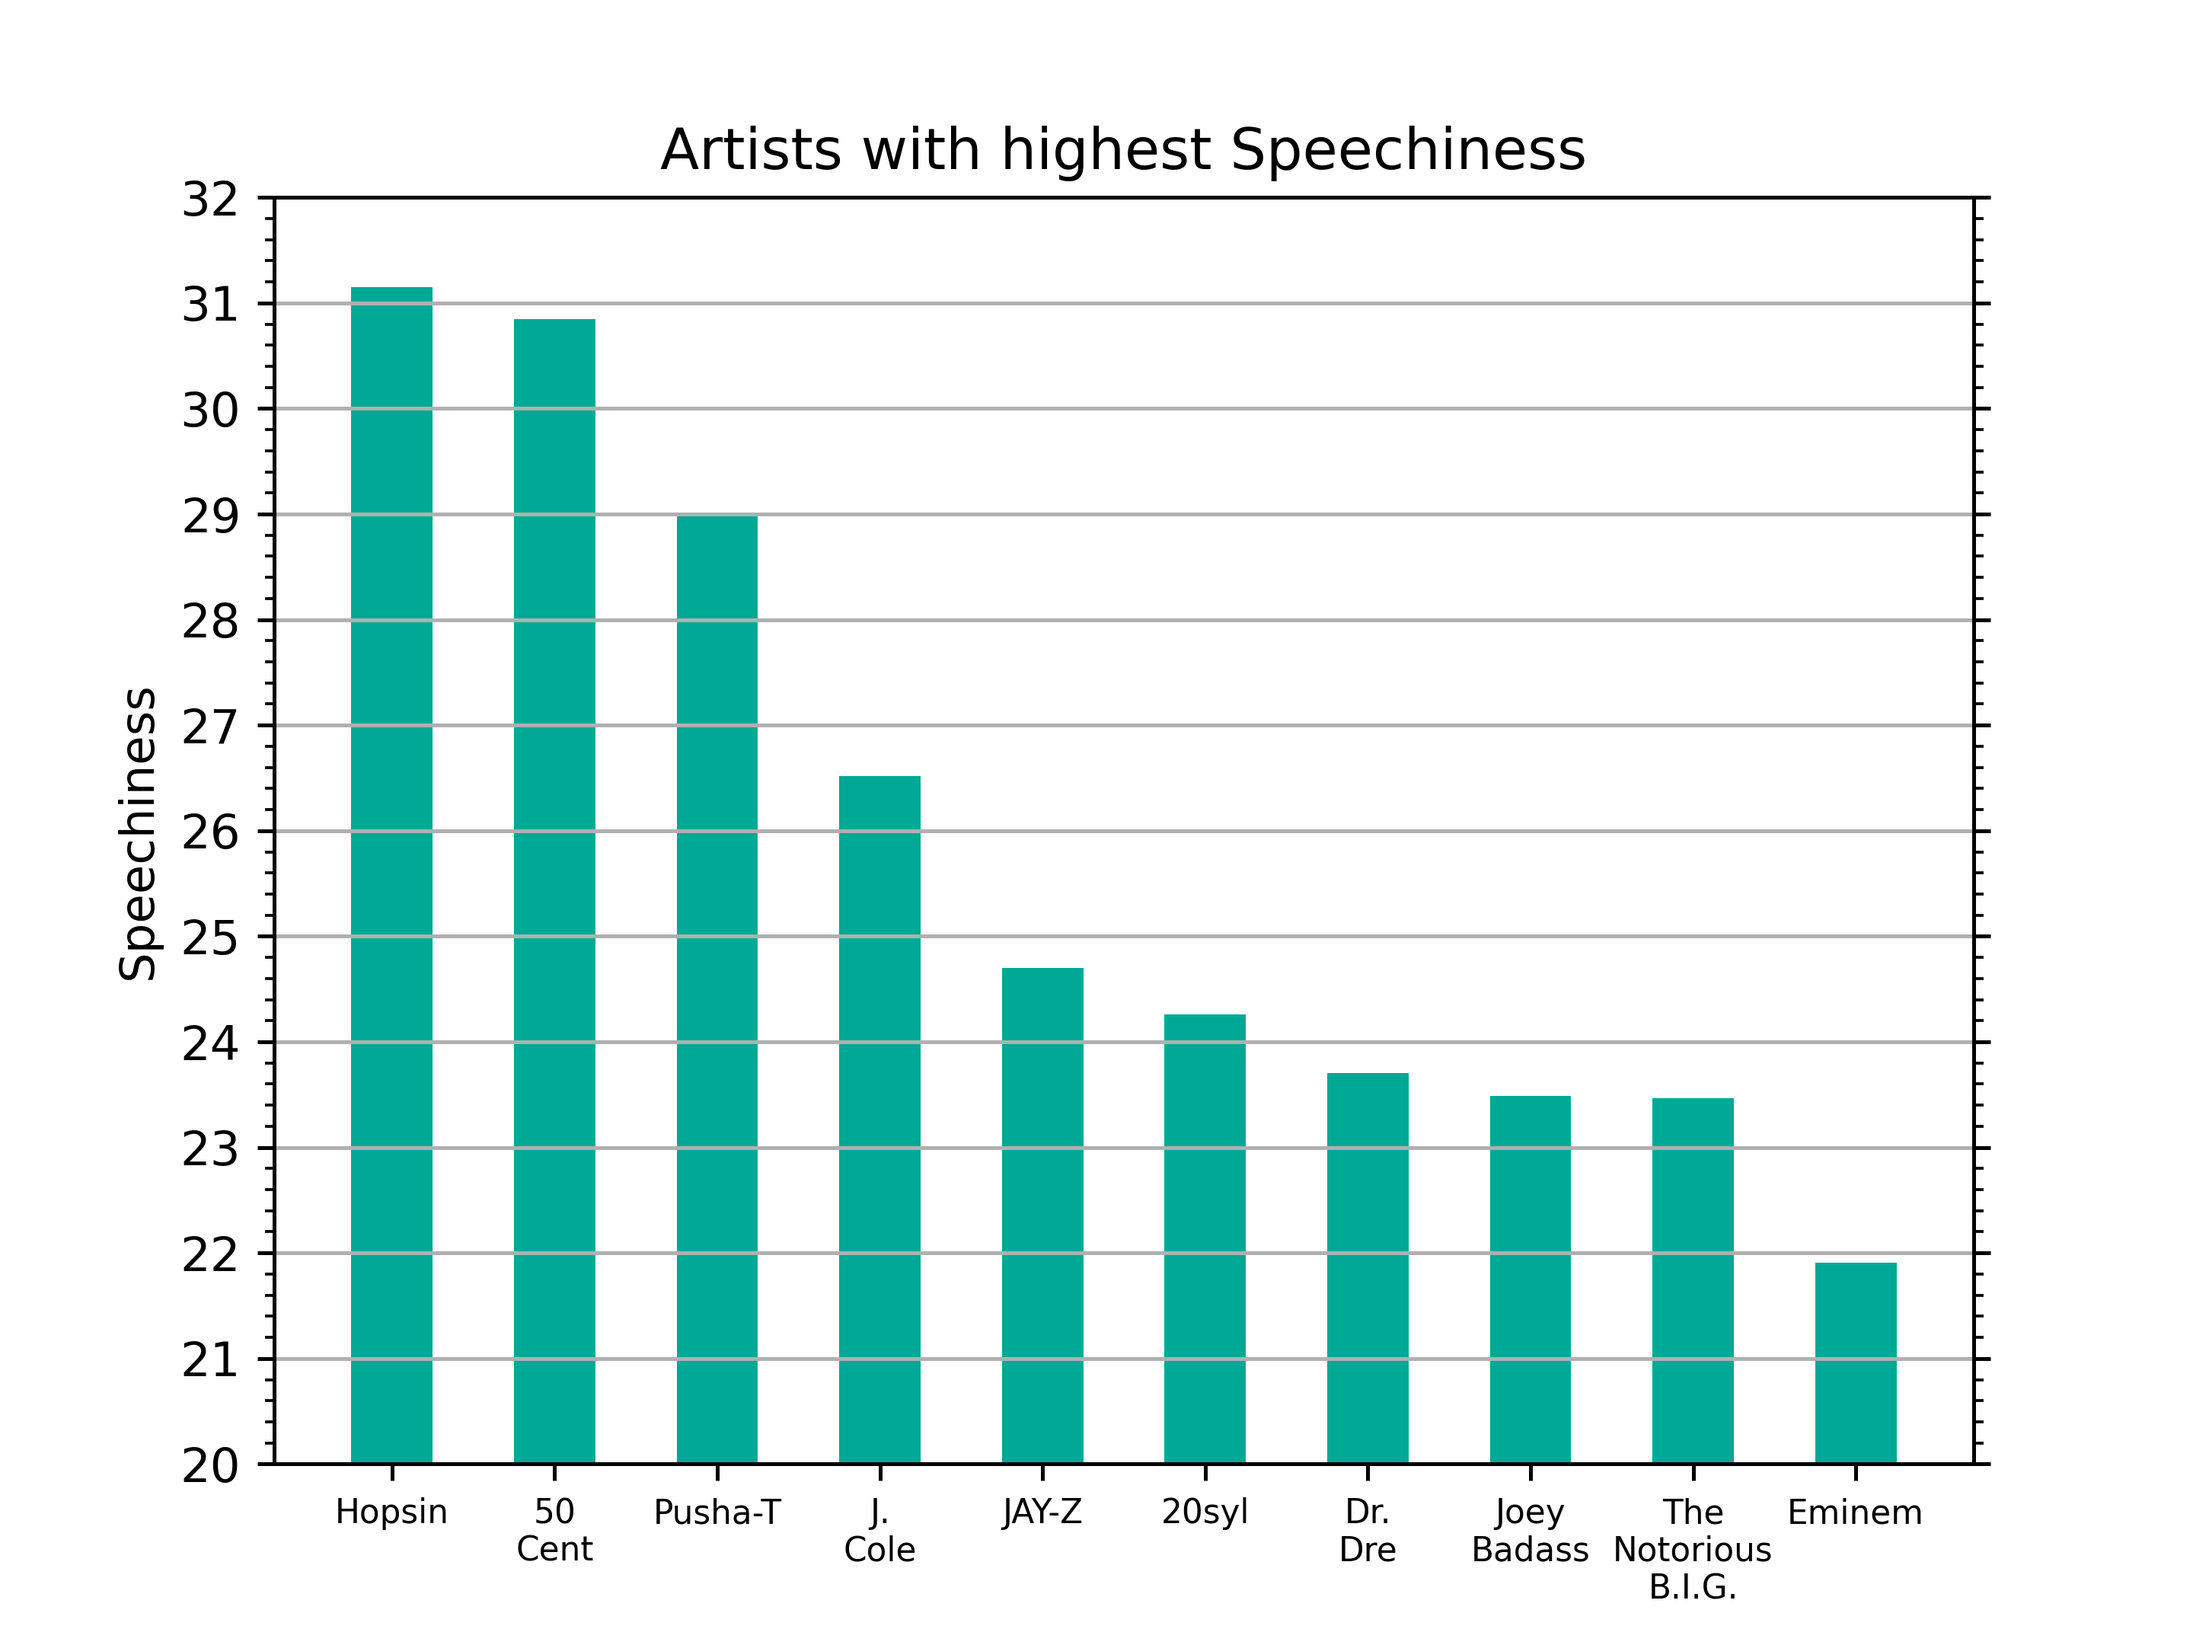
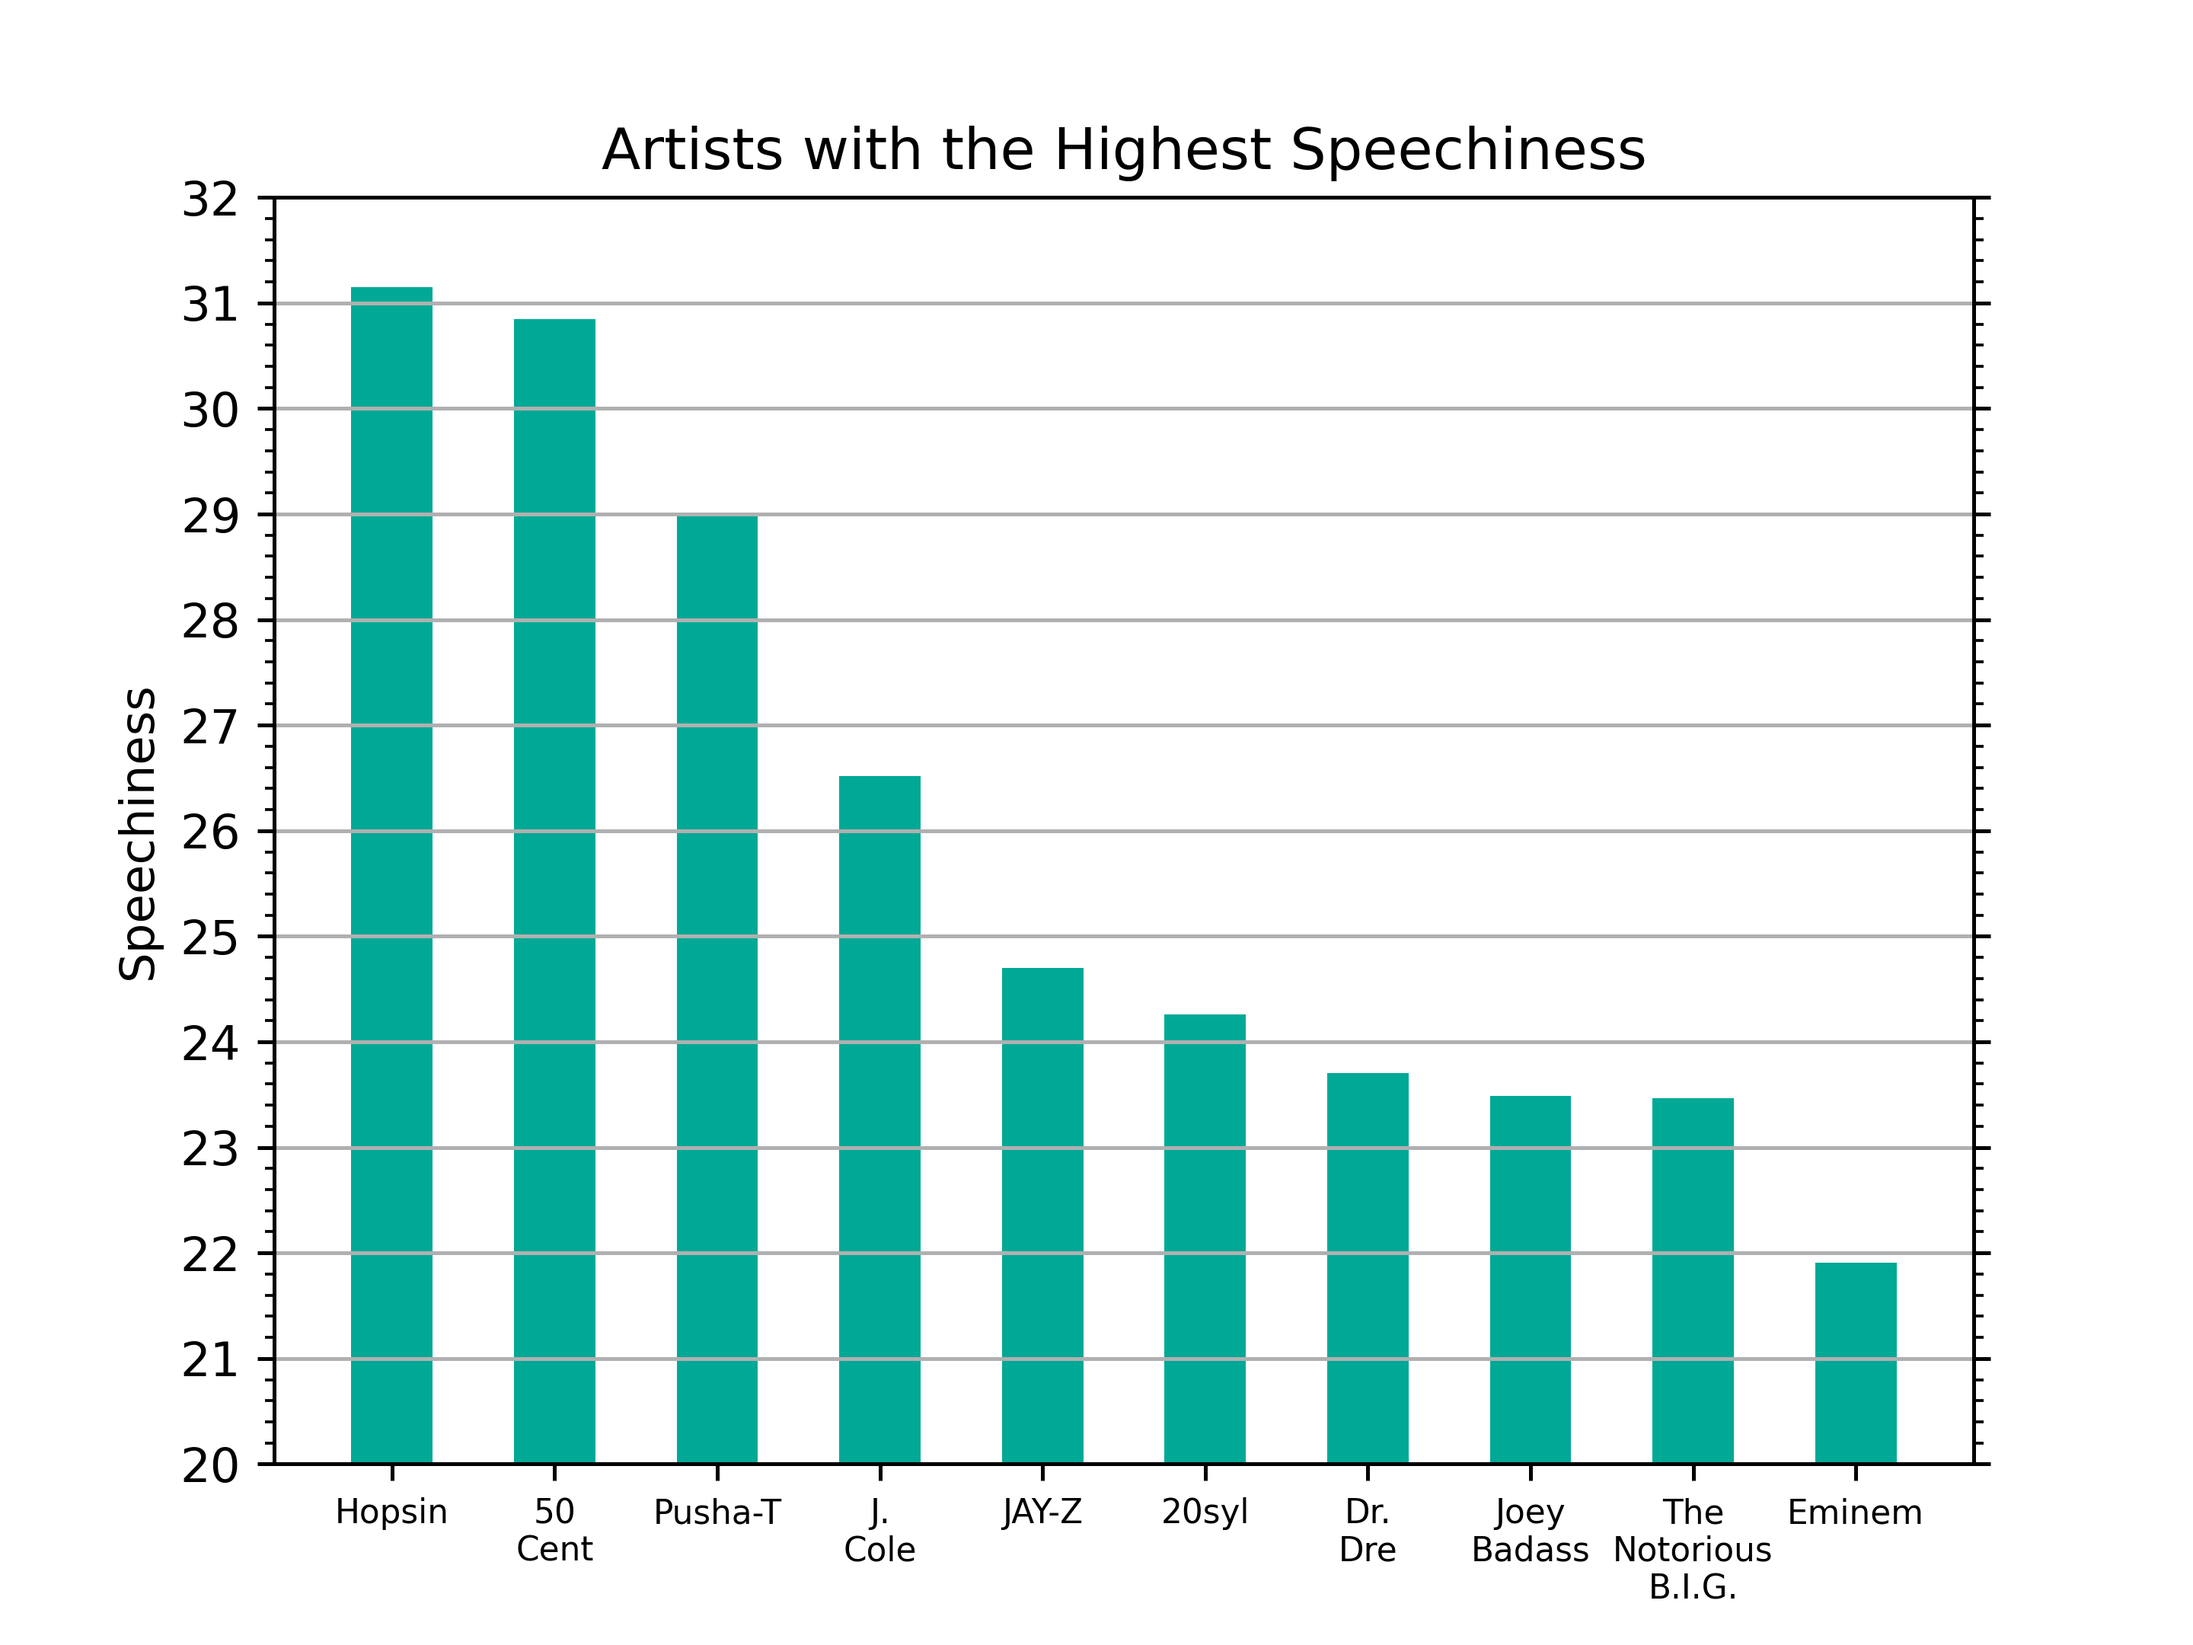
modified speechiness.py

Changed region(s): [[0.2812, 0.062, 0.75, 0.1241]]

diff --git a/speechiness.py b/speechiness.py
@@ -36,7 +36,7 @@ for name in names:
 for name in names_new:
     names_new[names_new.index(name)] = str.join("\n", name)
 py.xticks(x1, names_new, fontsize=6)
-py.title("Songs with highest Speechiness")
+py.title("Songs with the Highest Speechiness")
 py.ylabel("Speechiness")
 py.grid(axis='y')
 ax = py.gca()
@@ -60,7 +60,7 @@ for artist in artists_new:
     artists_new[artists_new.index(artist)] = str.join("\n", artist)
 py.xticks(x1, artists_new, fontsize=7)
 py.yticks(range(20, 33))
-py.title("Artists with highest Speechiness")
+py.title("Artists with the Highest Speechiness")
 py.ylabel("Speechiness")
 py.axis(ymin=20, ymax=32)
 py.grid(axis='y')
